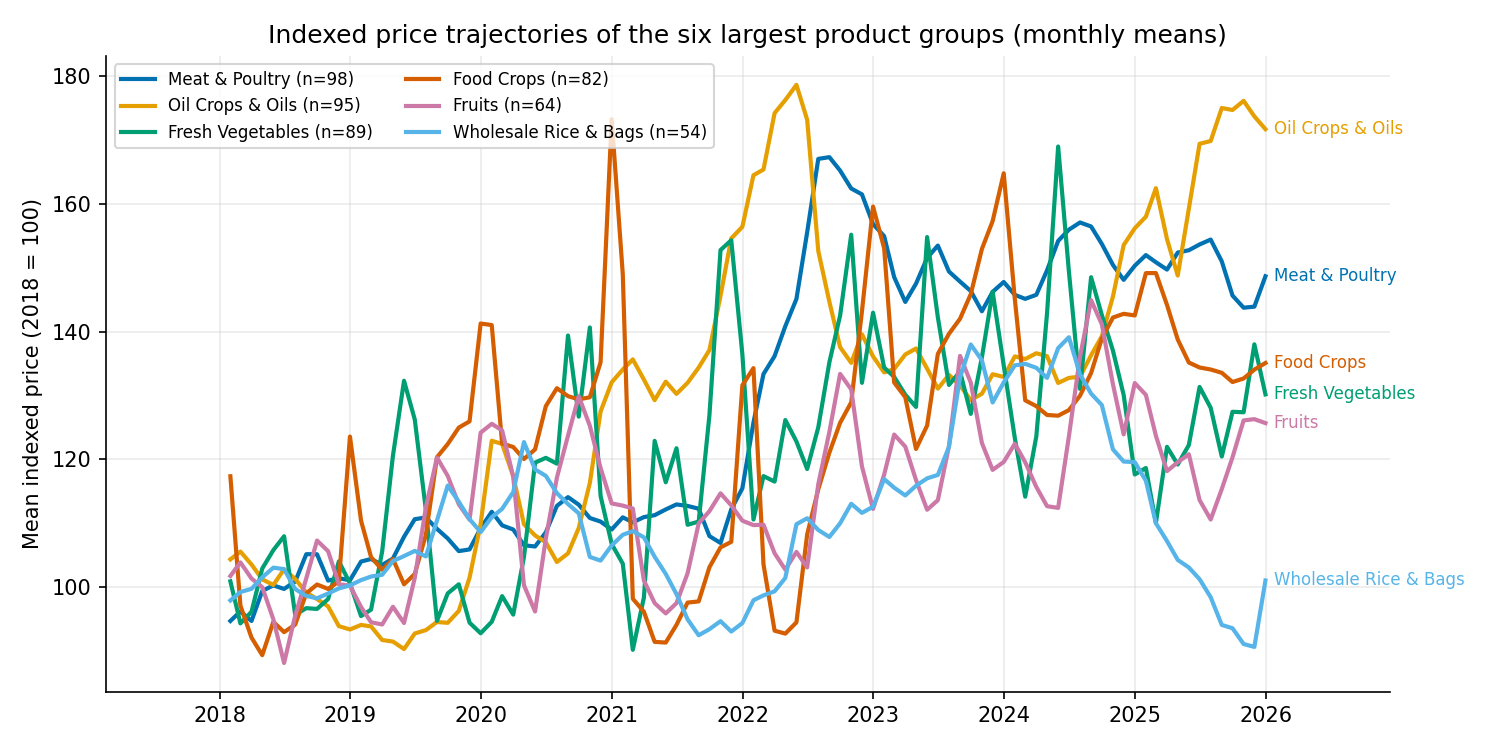
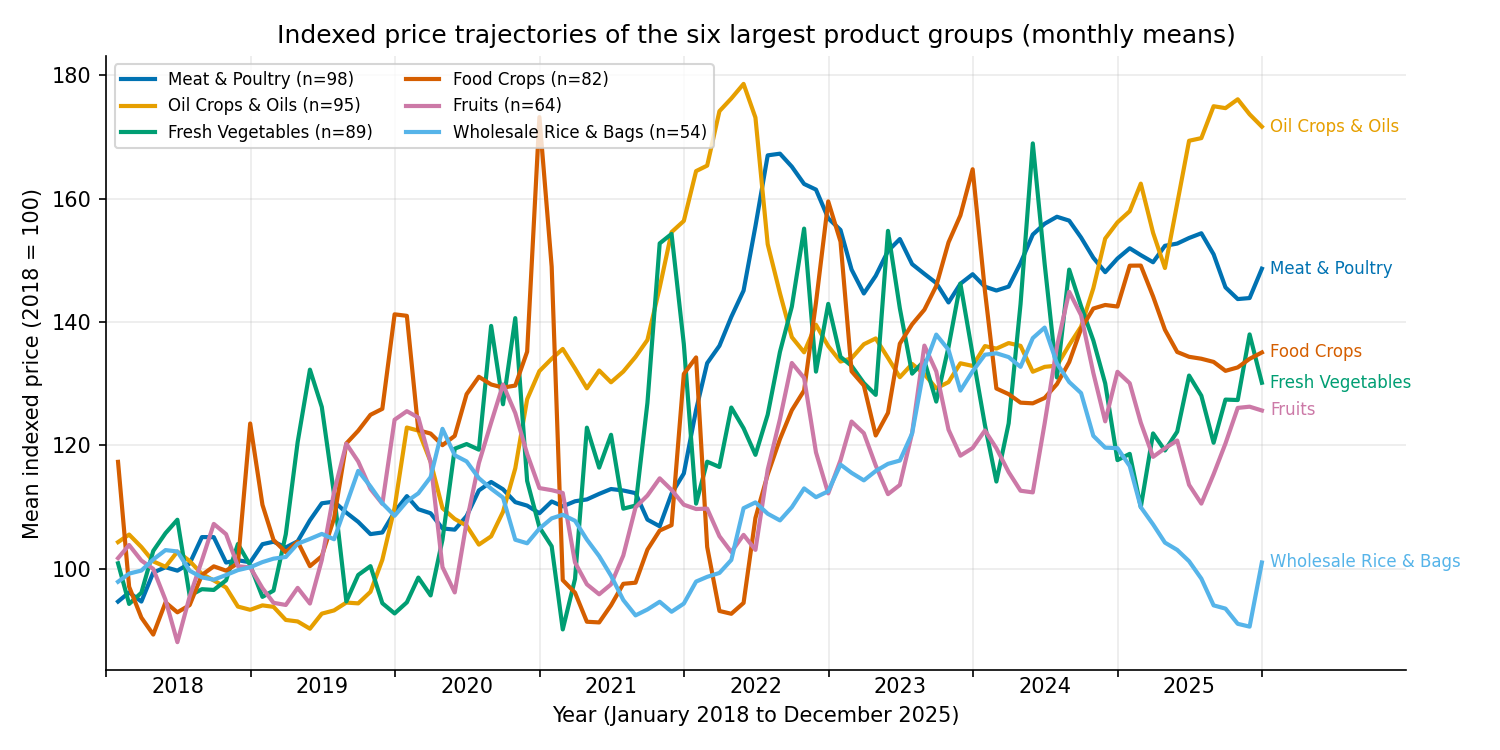
Fix the EDA script and label Figure 1 by year
run_eda.py used an undefined ranking of the most liquid series and crashed
before the correlation heatmap. It is now defined by the share of business
days with a price change, which reproduces the published 40 series. Figure 1
counts n from the series actually averaged and labels the years 2018 to 2025.
The EDA summary statistics are now published with the other results.

diff --git a/experiments/run_eda.py b/experiments/run_eda.py
@@ -187,6 +187,7 @@ picks = [type("R", (), {"product_id": order[0]}), type("R", (), {"product_id": o
 
 # ---- Figure 2: indexed price trends of six largest groups ----
 top_groups = act.group.value_counts().head(6).index.tolist()
+trend_n, trend_end = {}, None
 fig, ax = plt.subplots(figsize=(10, 5))
 for g, c in zip(top_groups, OKABE):
     pids = act[act.group == g].product_id
@@ -197,16 +198,29 @@ for g, c in zip(top_groups, OKABE):
         if base and not np.isnan(base) and base > 0:
             idxed.append(s / base * 100)
     gi = pd.concat(idxed, axis=1).mean(axis=1).resample("ME").mean()
-    ax.plot(gi.index, gi.values, color=c, linewidth=2, label=f"{g} (n={len(pids)})")
+    # n is the number of series actually averaged (all active series of the group have 2018 prices)
+    ax.plot(gi.index, gi.values, color=c, linewidth=2, label=f"{g} (n={len(idxed)})")
     ax.annotate(g, (gi.index[-1], gi.values[-1]), xytext=(4, 0), textcoords="offset points",
                 color=c, fontsize=8, va="center")
+    trend_n[g] = len(idxed)
+    trend_end = max(trend_end, gi.index[-1]) if trend_end is not None else gi.index[-1]
 ax.set_ylabel("Mean indexed price (2018 = 100)")
 ax.set_title("Indexed price trajectories of the six largest product groups (monthly means)")
 ax.legend(fontsize=8, ncol=2, loc="upper left")
-ax.margins(x=0.12)
+# the data end in December 2025, so label each year at its middle and stop the labels at 2025
+import matplotlib.dates as mdates
+years = range(2018, trend_end.year + 1)
+ax.set_xticks([pd.Timestamp(f"{y}-01-01") for y in list(years) + [trend_end.year + 1]])
+ax.xaxis.set_major_formatter(plt.NullFormatter())
+ax.set_xticks([pd.Timestamp(f"{y}-07-01") for y in years], minor=True)
+ax.set_xticklabels([str(y) for y in years], minor=True)
+ax.tick_params(axis="x", which="minor", length=0)
+ax.set_xlim(pd.Timestamp("2018-01-01"), pd.Timestamp(f"{trend_end.year + 1}-12-31"))
+ax.set_xlabel("Year (January 2018 to December 2025)")
 fig.tight_layout()
 fig.savefig(os.path.join(IMG, "price_trend.png"), dpi=150)
 plt.close(fig)
+print(f"price_trend: {sum(trend_n.values())} active series in the six largest groups {trend_n}, last month {trend_end:%Y-%m}", flush=True)
 
 # ---- Figure 3: stationarity by group ----
 g3 = act.groupby("group").agg(n=("product_id", "count"), smin=("stat_min", "mean"),
@@ -270,6 +284,8 @@ EN = {
  "W18096": ("Palm fruit bunch 18%, Phang Nga", "Palm fruit"),
 }
 FAM_ORDER = ["Cassava", "Grain", "Rubber", "Vegetable", "Palm oil", "Palm fruit"]
+# "most liquid" = highest share of business days with a price change
+liquid = act.sort_values("move_rate", ascending=False)
 top40 = list(liquid.head(40).product_id)
 if set(top40) == set(EN):
     ordered = sorted(top40, key=lambda p: (FAM_ORDER.index(EN[p][1]), p))
